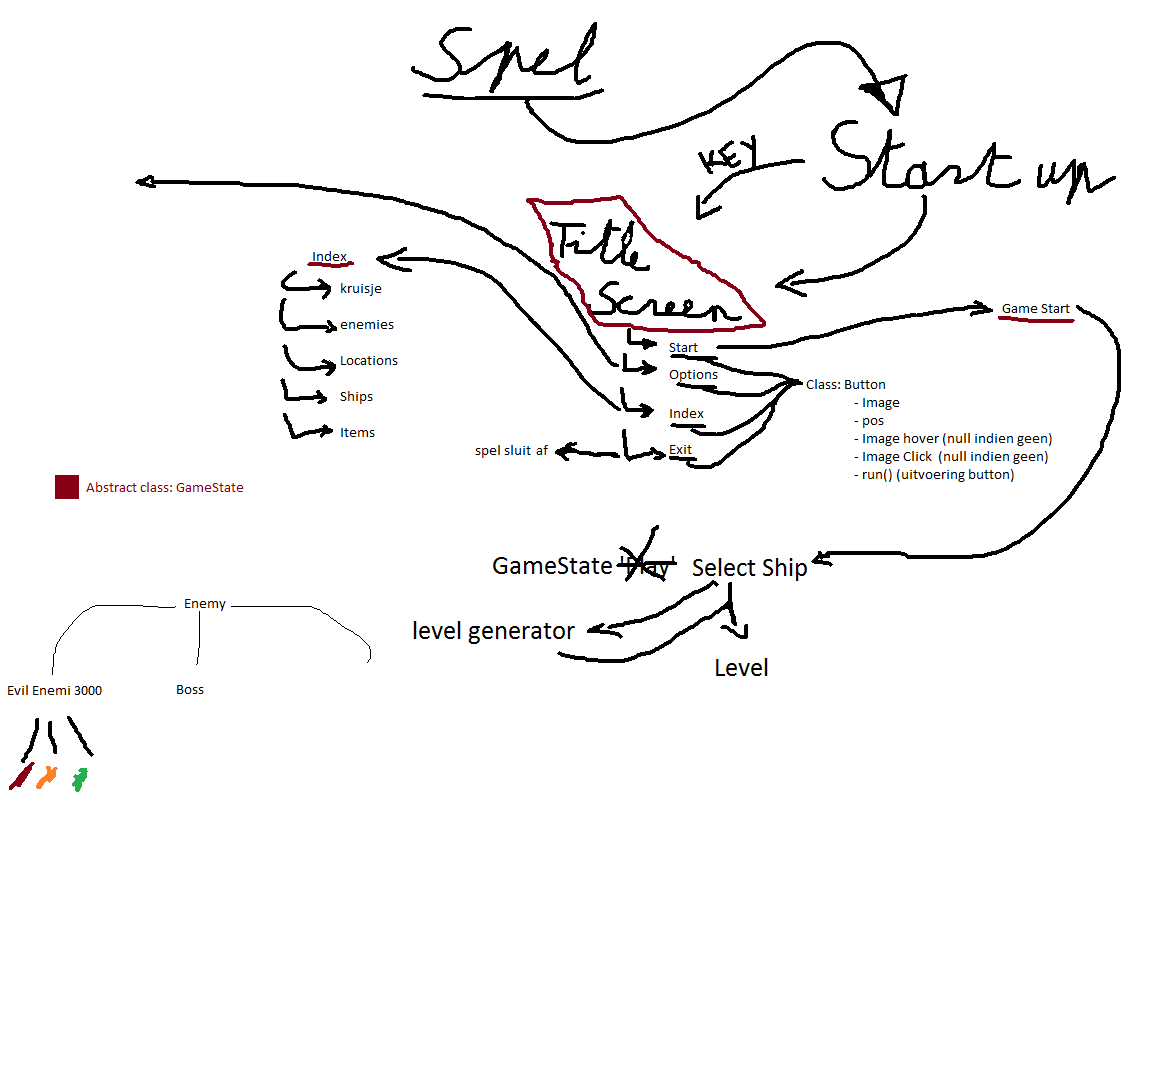
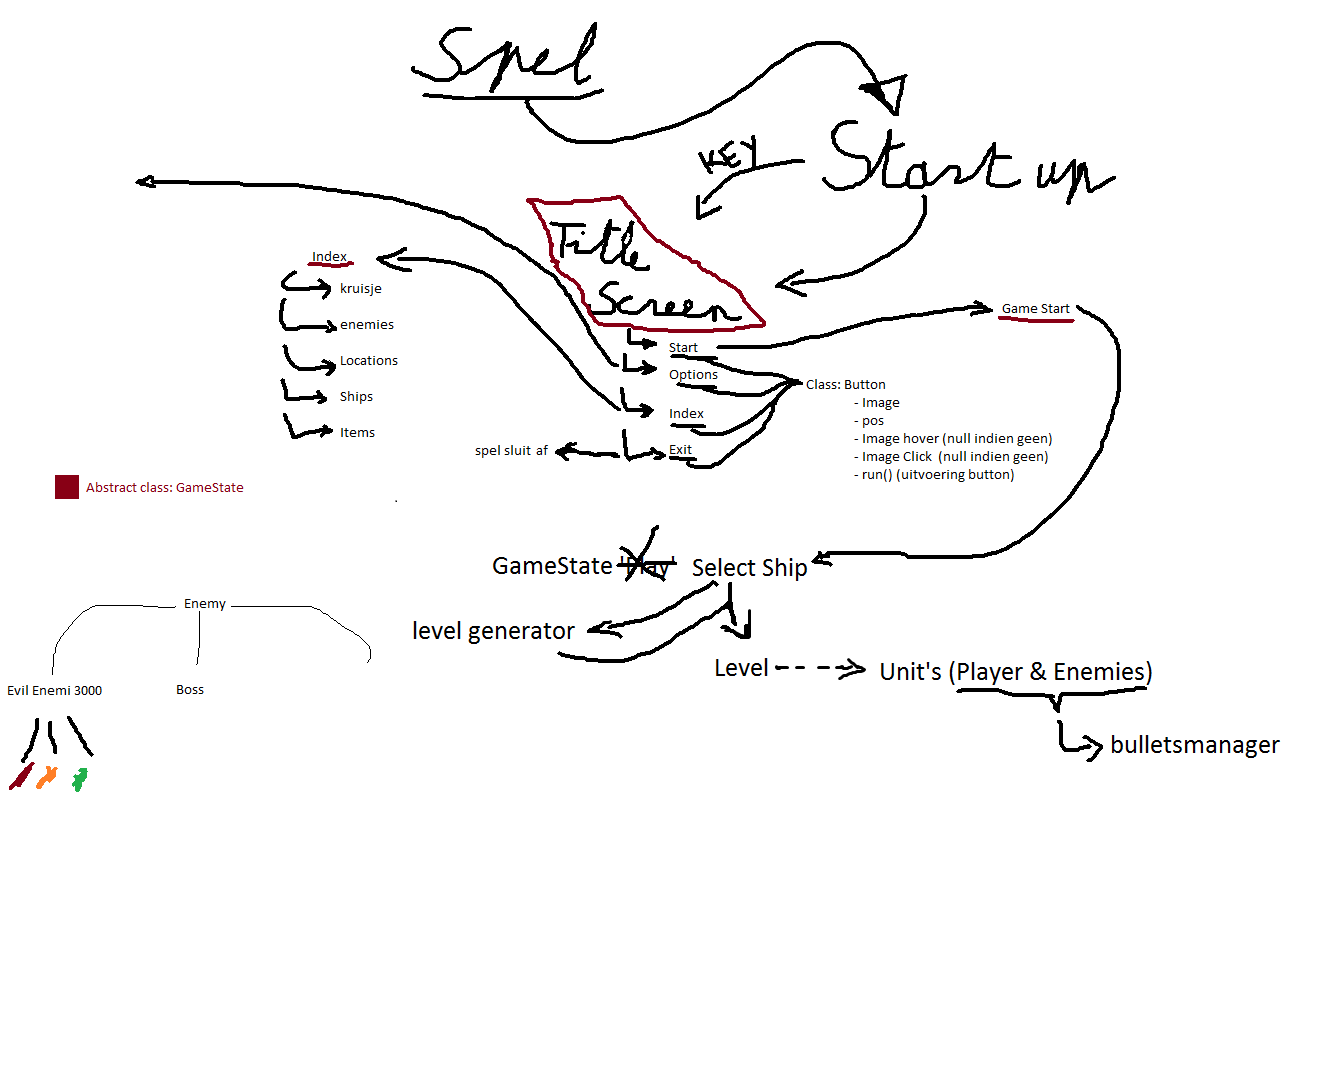
bullet manager

diff --git a/The Game/src/project_Beta/BulletManager.java b/The Game/src/project_Beta/BulletManager.java
@@ -1,0 +1,13 @@
+package project_Beta;
+
+import java.util.ArrayList;
+
+import engine.core.gfx.Image;
+
+public class BulletManager {
+
+	private ArrayList<Integer> bullettype;
+	// bullet A on position b has vector on location 2b
+	private ArrayList<Double> vectorList;
+	
+}
